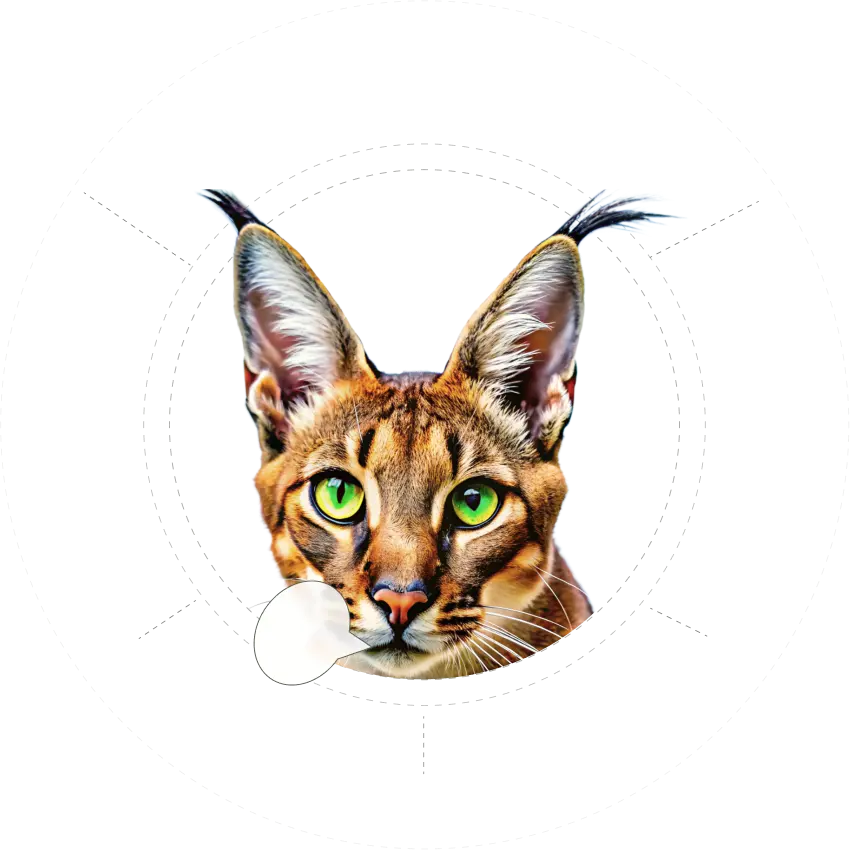
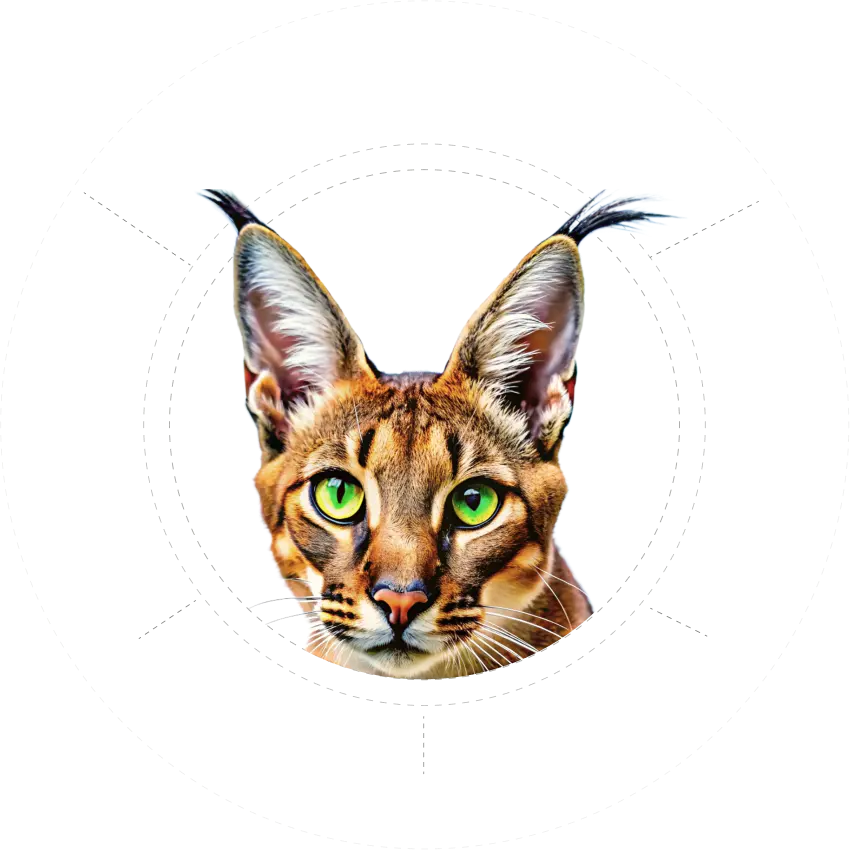
add mob styles

Changed region(s): [[0.3059, 0.6729, 0.4282, 0.7953]]

diff --git a/src/partials/why-we.html b/src/partials/why-we.html
@@ -94,9 +94,15 @@
 
       <div class="why-we__benefit">
         <img
-          class="why-we__benefit-image"
+          class="why-we__benefit-image-caracal"
           loading="lazy"
-          src=""
+          src="img/why-we/caracal-info.webp"
+          alt="Каракал"
+        />
+        <img
+          class="why-we__benefit-image-note"
+          loading="lazy"
+          src="img/why-we/note.webp"
           alt="Каракал"
         />
         <p class="why-we__benefit-caption-caracal">Брати будете?</p>
@@ -110,15 +116,15 @@
       />
     </div>
 
-    <a href="" class="why-we__link" aria-label="Перейти до каталогу товарів">
-      <div class="why-we__link-content">
+    <a href="#" class="category__link" aria-label="Перейти до каталогу товарів">
+      <div class="category__link-content">
         <img
           loading="lazy"
-          class="why-we__link-icon"
+          class="category__link-icon"
           src="img/svg/snake.svg"
           alt="Іконка змії"
         />
-        <p class="why-we__link-text">До каталогу</p>
+        <p class="category__link-text">До каталогу</p>
       </div>
     </a>
   </div>

diff --git a/src/css/layout/why-we.css b/src/css/layout/why-we.css
@@ -229,3 +229,53 @@
   top: 130px;
   z-index: 1;
 }
+
+.why-we__benefit {
+  position: relative;
+  margin-top: -50px;
+}
+
+.why-we__benefit-image-caracal {
+  width: 290px;
+}
+
+.why-we__benefit-image-note {
+  position: absolute;
+  top: 186px;
+  left: 50px;
+  width: 75px;
+}
+
+.why-we__benefit-caption-caracal {
+  position: absolute;
+  top: 205px;
+  left: 40px;
+  font-size: 14px;
+  text-align: center;
+  line-height: 100%;
+  max-width: 80px;
+}
+
+.why-we__decor-1 {
+  position: absolute;
+  top: 50px;
+  right: 80px;
+  width: 39px;
+  transform: rotate(-30deg);
+}
+
+.why-we__decor-2 {
+  position: absolute;
+  top: 300px;
+  right: 30px;
+  width: 39px;
+  transform: rotate(40deg);
+}
+
+.why-we__decor-3 {
+  position: absolute;
+  bottom: 430px;
+  left: 50px;
+  width: 39px;
+  transform: rotate(50deg);
+}
